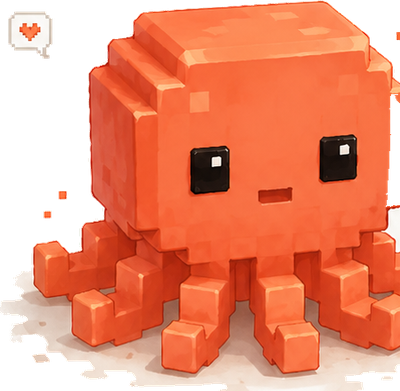
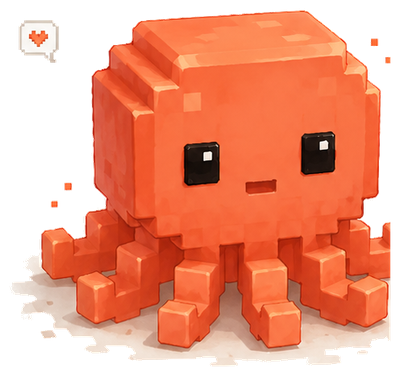
Pad hero crop so the signoff Inki no longer clips at the edges

diff --git a/scripts/email_template.html b/scripts/email_template.html
@@ -120,7 +120,7 @@
               <table role="presentation" cellpadding="0" cellspacing="0" border="0">
                 <tr>
                   <td valign="middle" style="padding-right:14px;">
-                    <img src="https://raw.githubusercontent.com/many221/openswarm-community-bot/main/scripts/assets/pixelpus_hero.png" width="84" height="91" alt="Inki" style="display:block;border:0;outline:none;text-decoration:none;">
+                    <img src="https://raw.githubusercontent.com/many221/openswarm-community-bot/main/scripts/assets/pixelpus_hero.png" width="92" height="86" alt="Inki" style="display:block;border:0;outline:none;text-decoration:none;">
                   </td>
                   <td valign="middle" style="font-family:Inter,-apple-system,BlinkMacSystemFont,sans-serif;font-size:14px;color:#6b6a68;line-height:1.5;">
                     {{ signoff }}
